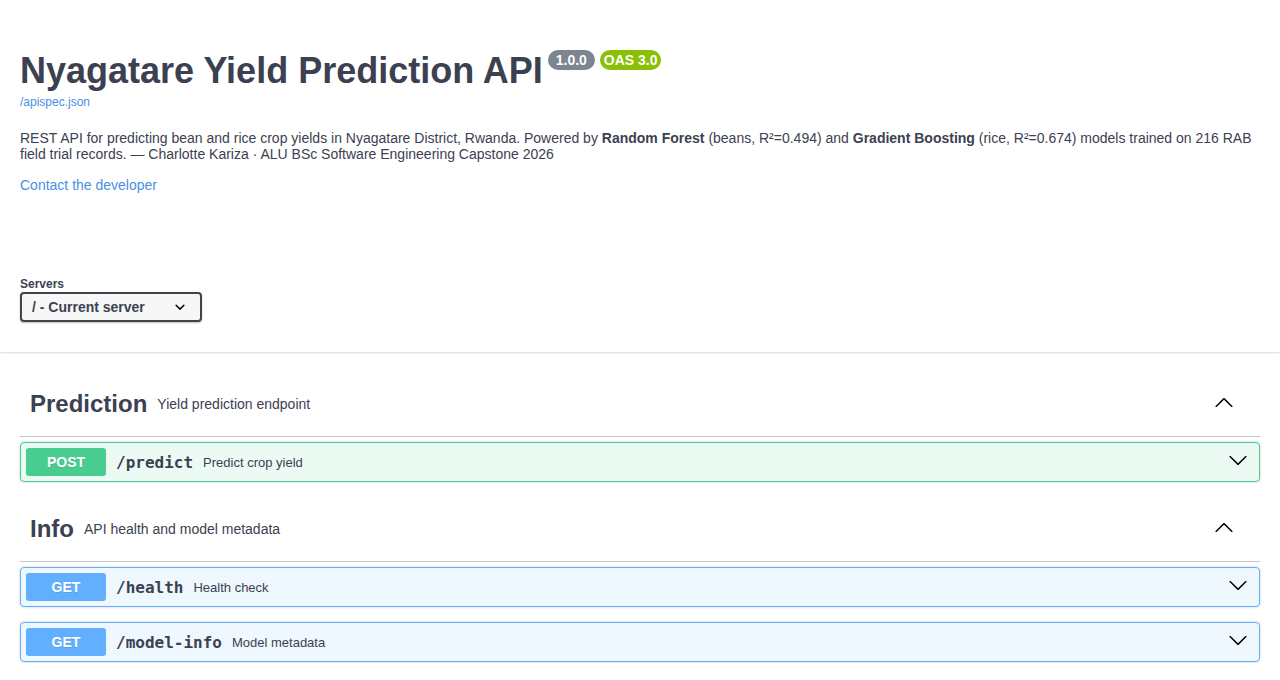
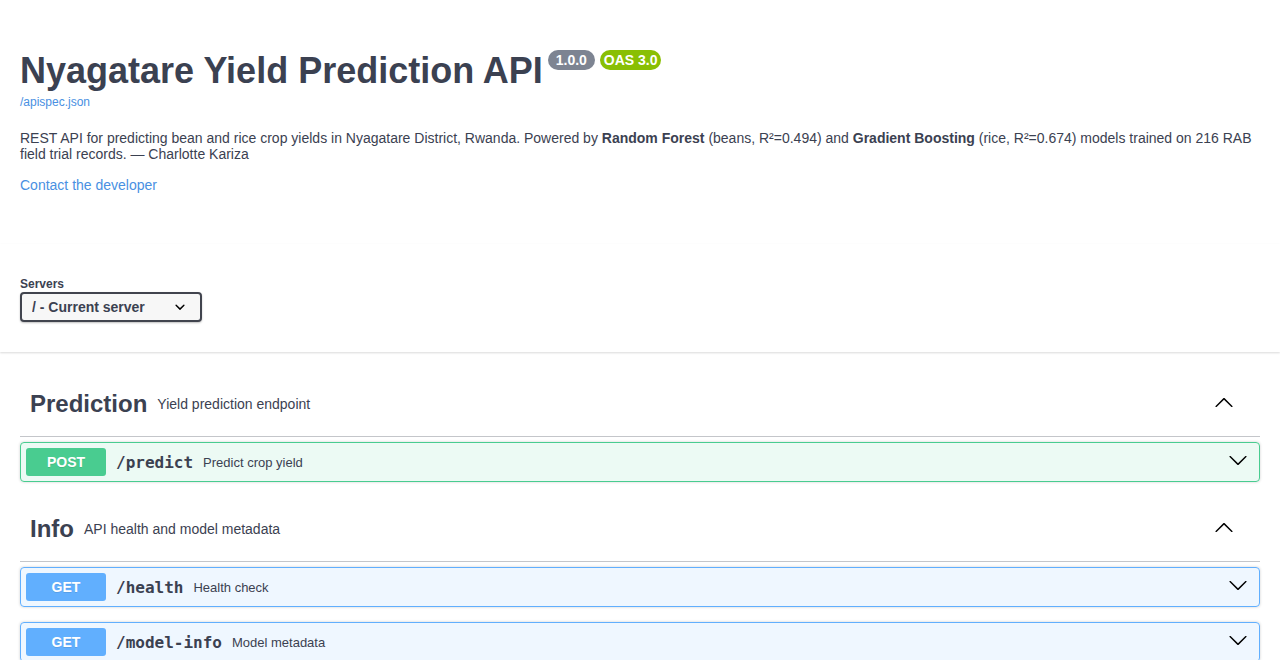
Remove capstone attribution from API description, refresh Swagger screenshot

diff --git a/api/app.py b/api/app.py
@@ -106,7 +106,7 @@ OPENAPI_SPEC = {
             'REST API for predicting bean and rice crop yields in Nyagatare District, Rwanda. '
             'Powered by **Random Forest** (beans, R²=0.494) and **Gradient Boosting** (rice, R²=0.674) '
             'models trained on 216 RAB field trial records. '
-            '— Charlotte Kariza · ALU BSc Software Engineering Capstone 2026'
+            '— Charlotte Kariza'
         ),
         'version': '1.0.0',
         'contact': {'email': 'c.kariza@alustudent.com'},
